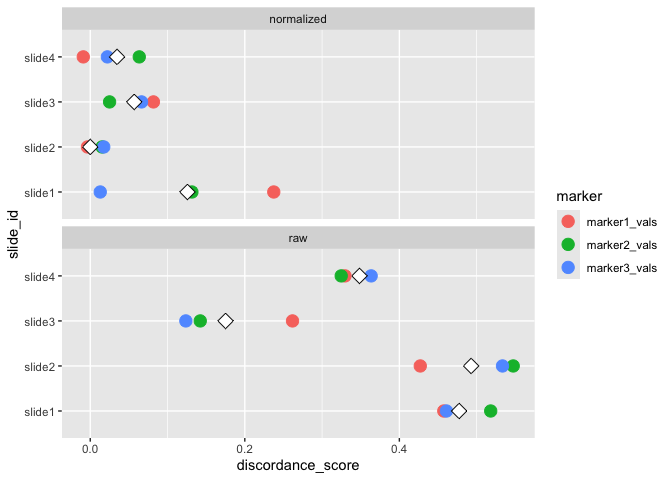
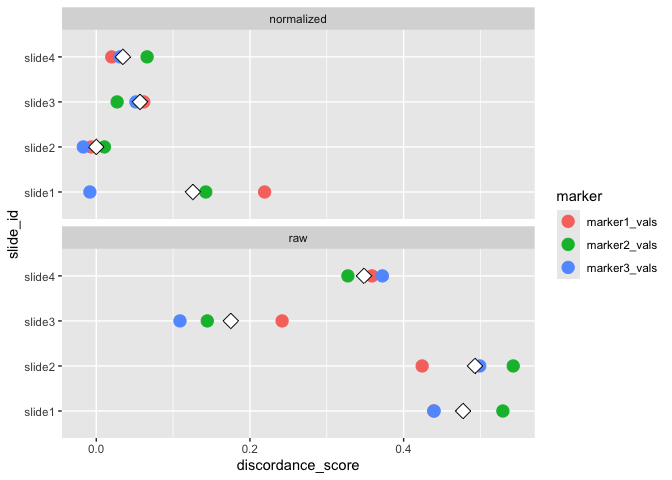
fix: r cmd checks

diff --git a/README.md b/README.md
@@ -40,7 +40,7 @@ devtools::install_github("ColemanRHarris/mxnorm")
 
 This package imports `lme4` (and its dependency `nloptr`) which use
 `CMake` to build the packages. To install `CMake`, please see
-[here](https://cmake.org/install/) or select from the following:
+[here](https://cmake.org/resources/) or select from the following:
 
     - yum install cmake          (Fedora/CentOS; inside a terminal)
     - apt install cmake          (Debian/Ubuntu; inside a terminal).
@@ -257,8 +257,8 @@ summary(mx_var)
 #> 
 #> Clustering consistency (UMAP):
 #>       table adj_rand_index cohens_kappa
-#>  normalized          0.055       -0.089
-#>         raw          0.900       -0.317
+#>  normalized          0.045       -0.054
+#>         raw          0.884        0.297
 #> 
 #> Variance proportions (slide-level):
 #>       table  mean    sd
